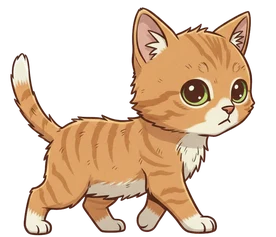
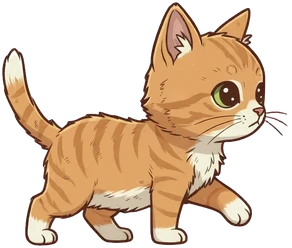
Котик: ходьба из 3 кадров, голова не дёргается

diff --git a/components/hangar-cat.tsx b/components/hangar-cat.tsx
@@ -22,13 +22,16 @@ import { checkCatName, CAT_NAME_MAX } from '@/lib/catName'
 import { useAchievementUnlockStore } from '@/store/use-achievement-unlock-store'
 import { playSound, playJustClick, CASE_PRIZE_SOUND } from '@/lib/sound'
 
-type Pose = 'happy' | 'peek' | 'walk-1' | 'walk-2' | 'meow' | 'pet' | 'sniff' | 'sleep' | 'sit' | 'sit-half' | 'sit-closed' | 'sit-shy'
+type Pose = 'happy' | 'peek' | 'walk-1' | 'walk-2' | 'walk-3' | 'meow' | 'pet' | 'sniff' | 'sleep' | 'sit' | 'sit-half' | 'sit-closed' | 'sit-shy'
 
 // Размер позы в исходных пикселях (обрезка по картинке, до уменьшения).
 const CAT_PX: Record<Pose, [number, number]> = {
-    peek: [536, 651], 'walk-1': [767, 659], 'walk-2': [767, 659], meow: [648, 750], pet: [611, 764], sniff: [632, 727],
+    peek: [536, 651], 'walk-1': [811, 689], 'walk-2': [811, 689], 'walk-3': [811, 689], meow: [648, 750], pet: [611, 764], sniff: [632, 727],
     sleep: [672, 453], happy: [626, 755], sit: [626, 755], 'sit-half': [626, 755], 'sit-closed': [626, 755], 'sit-shy': [627, 635],
 }
+// Ходьба — 3 кадра Leonardo (docs/hangar/leonardo/cat-walk2-*): лапа вперёд → широкий шаг → лапы собраны.
+// Кадры выровнены по голове, поэтому голова не дёргается — двигаются только лапы.
+const WALK_FRAMES: Pose[] = ['walk-1', 'walk-2', 'walk-3']
 const src = (p: Pose) => `/hangar/life/cat-${p}.webp`
 
 // Точки сцены: у правой стойки ворот (далеко — мельче; слева от ворот стоит бочка) и картонка на полу перед ракетой.
@@ -400,7 +403,7 @@ export function HangarCat({ stage, bare, night, onHome, fridgeFixed = false, cat
     // кадры ходьбы
     useEffect(() => {
         if (phase !== 'walk' && !stroll?.walking) return
-        const t = setInterval(() => setStep((s) => 1 - s), 170)
+        const t = setInterval(() => setStep((s) => (s + 1) % 3), 150)
         return () => clearInterval(t)
     }, [phase, stroll?.walking])
 
@@ -514,7 +517,7 @@ export function HangarCat({ stage, bare, night, onHome, fridgeFixed = false, cat
 
     // --- бежит к картонке ---
     if (phase === 'walk') {
-        const pose: Pose = step ? 'walk-2' : 'walk-1'
+        const pose: Pose = WALK_FRAMES[step]
         const frames = [...PATH.slice(0, -1), BED].map((p) => box('walk-1', p))
         return (
             <>
@@ -524,8 +527,8 @@ export function HangarCat({ stage, bare, night, onHome, fridgeFixed = false, cat
                     animate={{ left: frames.map((f) => f.left), top: frames.map((f) => f.top), width: frames.map((f) => f.width), height: frames.map((f) => f.height) }}
                     transition={{ duration: WALK_S, ease: 'linear', times: [0, 0.3, 0.65, 1] }}>
                     <CatShadow />
-                    <motion.div className="absolute inset-0" animate={{ y: ['0%', '-4%', '0%'] }} transition={{ duration: 0.34, repeat: Infinity }}>
-                        <CatImg pose={pose} poses={['walk-1', 'walk-2']} flip />
+                    <motion.div className="absolute inset-0" animate={{ y: ['0%', '-1.5%', '0%'] }} transition={{ duration: 0.3, repeat: Infinity }}>
+                        <CatImg pose={pose} poses={WALK_FRAMES} flip />
                     </motion.div>
                 </motion.div>
                 {lure === 'sausage' && (
@@ -560,8 +563,8 @@ export function HangarCat({ stage, bare, night, onHome, fridgeFixed = false, cat
                     transition={{ duration: stroll.walking ? stroll.dur : 0, ease: 'linear' }}
                     onClick={stroll.walking || bare ? undefined : () => { playJustClick(); const r = Math.random(); doReact(r < 0.5 ? 'pet' : 'meow') }}>
                     <CatShadow />
-                    <motion.div className="absolute inset-0" animate={{ y: stroll.walking ? ['0%', '-4%', '0%'] : '0%' }} transition={{ duration: 0.34, repeat: stroll.walking ? Infinity : 0 }}>
-                        <CatImg pose={stroll.walking ? (step ? 'walk-2' : 'walk-1') : stroll.under ? 'sleep' : 'sit-shy'} poses={['walk-1', 'walk-2', 'sit-shy', 'sleep']} flip={stroll.flip} />
+                    <motion.div className="absolute inset-0" animate={{ y: stroll.walking ? ['0%', '-1.5%', '0%'] : '0%' }} transition={{ duration: 0.3, repeat: stroll.walking ? Infinity : 0 }}>
+                        <CatImg pose={stroll.walking ? WALK_FRAMES[step] : stroll.under ? 'sleep' : 'sit-shy'} poses={[...WALK_FRAMES, 'sit-shy', 'sleep']} flip={stroll.flip} />
                     </motion.div>
                 </motion.div>
             ) : (
